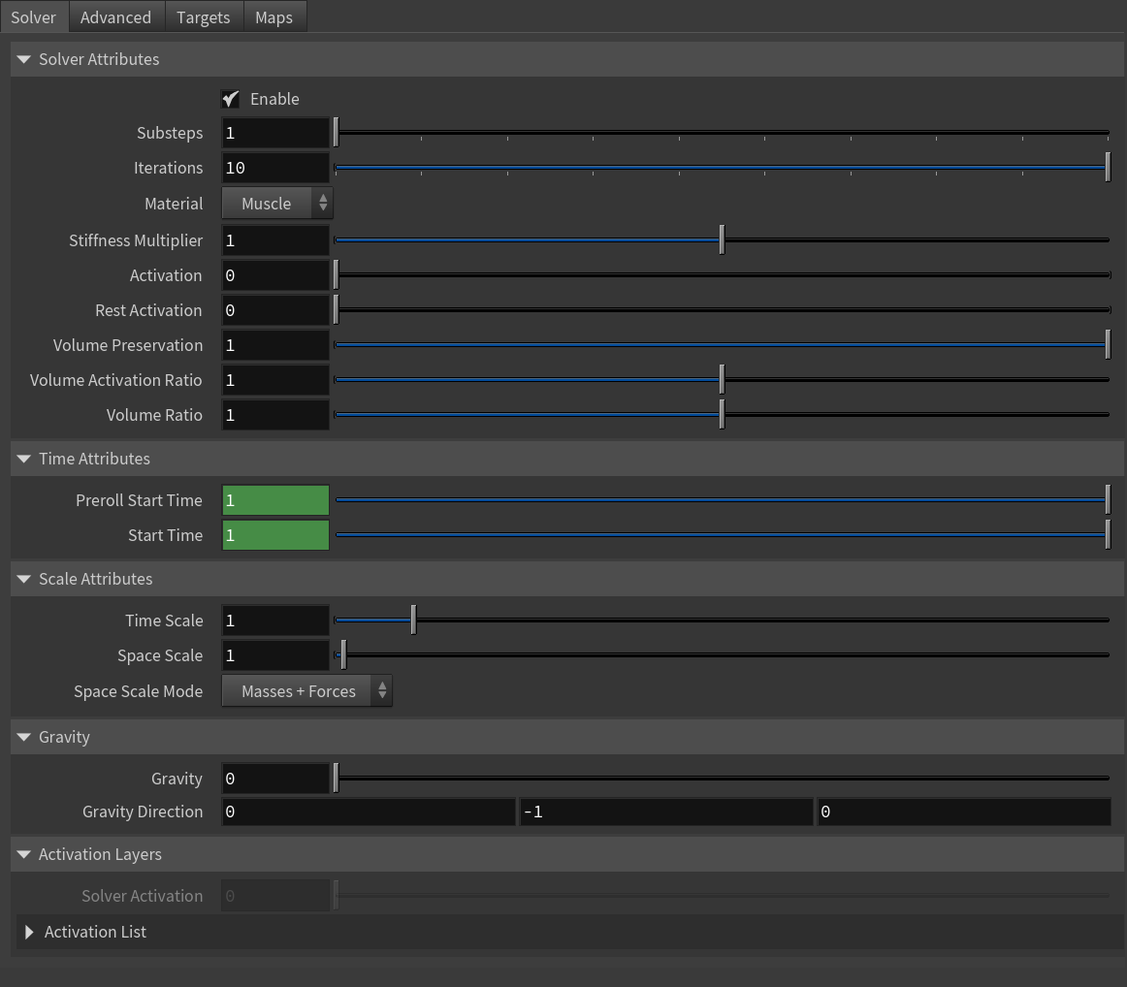
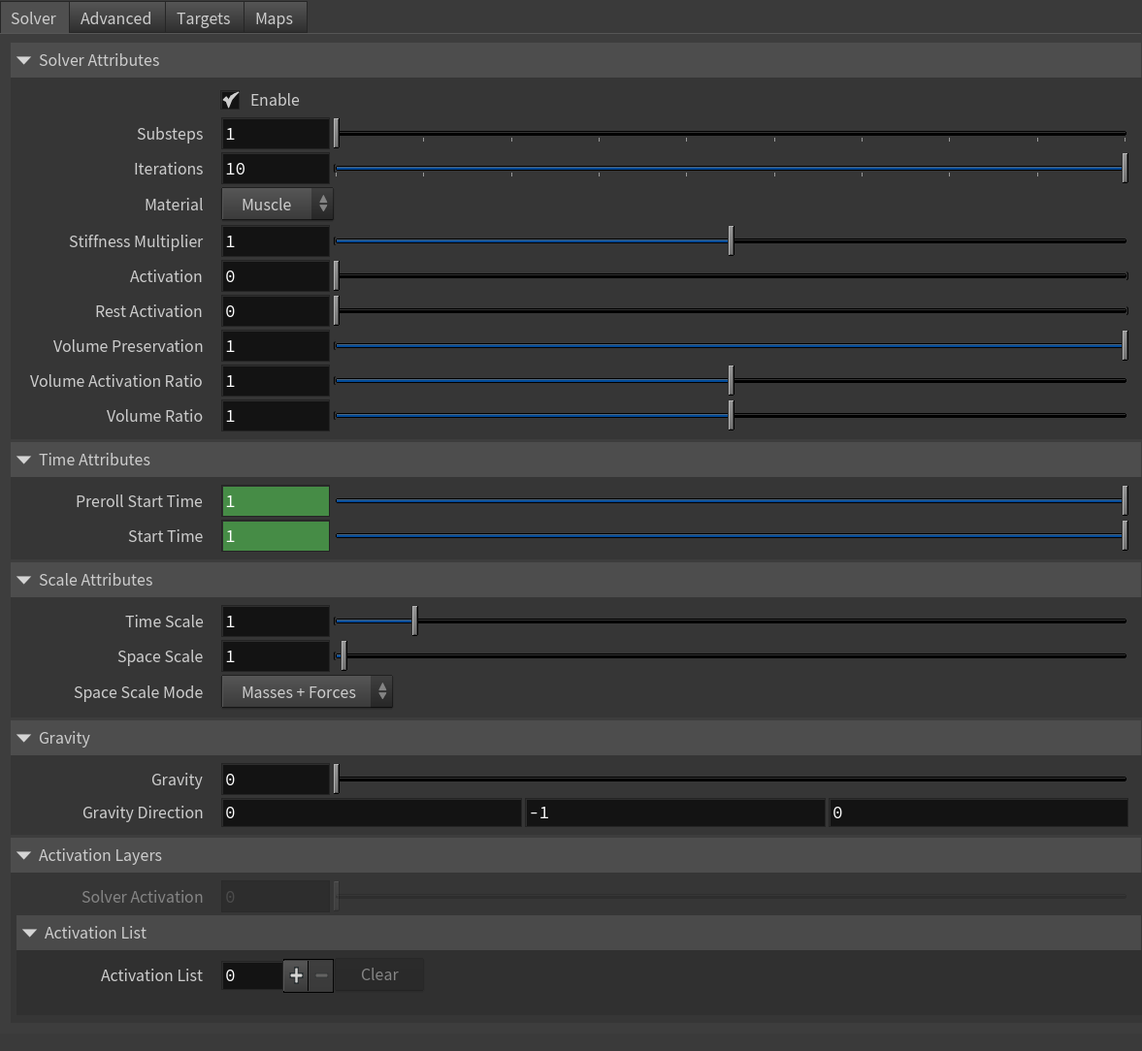
Add page of AdnRibbonMuscle for houdini (pending: scene screenshots)

Changed region(s): [[0.031, 0.0914, 0.9914, 0.944], [0.0, 0.0, 0.2788, 0.0609], [0.3098, 0.9136, 0.3408, 0.944]]

diff --git a/docs/houdini/solvers/ribbon.md b/docs/houdini/solvers/ribbon.md
@@ -1,3 +1,327 @@
 # AdnRibbonMuscle
 
-Coming soon
+AdnRibbonMuscle is a Houdini SOP for fast, robust, and easy-to-configure muscle simulation on a surface. Thanks to the combination of internal (structural) and external (attachment and slide) constraints, this SOP can produce dynamics that allow the mesh to acquire realistic muscle-like behavior of a ribbon, including fiber activation to modulate rigidity and attachment properties that allow the muscle to follow the global kinematics of the character through external objects.
+
+The influence of these constraints on the simulated mesh can be freely modified by painting the available maps or by uniformly adjusting their influence using multipliers in the SOP parameters. In addition to maps and multipliers, there are many other parameters available to control the muscle’s dynamics and behavior, offering a wide range of configuration options.
+
+
+### How To Use
+
+The AdnRibbonMuscle SOP is very simple to apply to geometry and set up in a Houdini scene. It works by connecting the geometry to be simulated to the single input of the SOP. Then, attachment objects are added in the **Targets** tab, and maps are painted to make the simulated geometry follow those objects. This introduces a significant portion of the solver’s dynamics. Additionally, there are several intuitive, easy-to-set parameters and other paintable maps that allow further tweaking of the simulation to achieve the desired results.
+
+An AdnRibbonMuscle setup requires the following inputs:
+
+- **Targets (T)**: A list of objects with which the simulated muscle will interact. Targets can be nodes to define attachment points via their transformation matrix (e.g., rig joints, null nodes, etc.) or geometries to define those attachment points via closest point queries on their surface (e.g., bones or other muscles). Providing a list of targets is optional; however, targets are required to enable attachment and sliding behaviors on the muscle. One or multiple targets are supported. Refer to the [Targets Section](#targets) for more information.
+- **Muscle Geometry (M)**: The mesh to which the AdnRibbonMuscle SOP will be applied.
+
+To create an AdnRibbonMuscle, follow these steps:
+
+1. Go to the geometry context of the rig containing the muscle geometries and ensure that the muscle is a single geometry piece.
+2. Press TAB and navigate to the submenu AdonisFX > Solvers to find the AdnRibbonMuscle ![Muscle button](../../images/adn_ribbon_muscle.png){style="width:4%"} SOP type.
+3. Create it and connect the geometry to the input.
+4. Go to the **Targets** tab in the AdnRibbonMuscle parameters, add a new entry either to *Targets* to add a geometry target (e.g., the mummy).
+5. Provide the object path of the geometry in *Target World Mesh*.
+6. The AdnRibbonMuscle is now ready to simulate using the default settings. Refer to the next section to customize its configuration.
+
+## Attributes
+
+### Solver Attributes
+| Name | Type | Default | Animatable | Description |
+| :--- | :--- | :------ | :--------- | :---------- |
+| **Enable**                  | Boolean    | True   | ✓ | Flag to enable or disable the SOP computation. |
+| **Substeps**                | Integer    | 1      | ✓ | Number of steps that the solver will execute per simulation frame. Greater values mean greater computational cost. Has a range of \[1, 10\]. The upper limit is soft, higher values can be used. |
+| **Iterations**              | Integer    | 10     | ✓ | Number of iterations that the solver will execute per simulation step. Greater values mean greater computational cost. Has a range of \[1, 10\]. The upper limit is soft, higher values can be used. |
+| **Material**                | Enumerator | Muscle | ✓ | Solver stiffness presets per material. The materials are listed from lowest to highest stiffness. There are 8 different presets: Fat: 10<sup>3</sup>, Muscle: 5e<sup>3</sup>, Rubber: 10<sup>6</sup>, Tendon: 5e<sup>7</sup>, Leather: 10<sup>8</sup>, Wood: 6e<sup>9</sup>, Skin: 12e<sup>3</sup>. |
+| **Stiffness Multiplier**    | Float      | 1.0    | ✓ | Multiplier factor to scale up or down the material stiffness. Has a range of \[0.0, 2.0\]. The upper limit is soft, higher values can be used. |
+| **Activation**              | Float      | 0.0    | ✓ | Current activation of the deformed muscle. The activation modifies the stiffness of the muscle depending on the fibers direction of the muscle. Has a range of \[0.0, 1.0\]. To ingest activations driven by multiple sensors into the muscle, refer to the [AdnActivation](../utils/activation#adnactivation) page. |
+| **Rest Activation**         | Float      | 0.0    | ✓ | Value representing the amount of rest activation to apply to the muscle. Has a range of \[0.0, 1.0\]. |
+
+### Time Attributes
+| Name | Type | Default | Animatable | Description |
+| :--- | :--- | :------ | :--------- | :---------- |
+| **Preroll Start Time** | Time | *Current frame* | ✗ | Sets the frame at which the preroll begins. The preroll ends at *Start Time*. |
+| **Start Time**         | Time | *Current frame* | ✗ | Determines the frame at which the simulation starts. |
+| **Current Time**       | Time | *Current frame* | ✓ | Current playback frame. |
+
+### Scale Attributes
+| Name | Type | Default | Animatable | Description |
+| :--- | :--- | :------ | :--------- | :---------- |
+| **Time Scale**       | Float      | 1.0             | ✓ | Sets the scaling factor applied to the simulation time step. Has a range of \[0.0, 2.0\]. The upper limit is soft, higher values can be used. |
+| **Space Scale**      | Float      | 1.0             | ✓ | Sets the scaling factor applied to the masses and/or the forces (e.g. gravity). AdonisFX interprets the scene units in centimeters. If modeling your creature you apply a scaling factor for whatever reason (e.g. to avoid precision issues in Maya), you will have to adjust for this scaling factor using this attribute. If your character is supposed to be 170 units tall, but you prefer to model it to be 17 units tall, then you will need to set the space scale to a value of 10. This will ensure that your 17 units creature will simulate as if it was 170 units tall. Has a range of \[0.0, 2.0\]. The upper limit is soft, higher values can be used. |
+| **Space Scale Mode** | Enumerator | Masses + Forces | ✓ | Determines if the spatial scaling affects the masses, the forces, or both. The available options are: <ul><li>Masses: The *Space Scale* only affects masses.</li><li>Forces: The *Space Scale* only affects forces.</li><li>Masses + Forces: The *Space Scale* affects masses and forces.</li><ul> |
+
+### Gravity
+| Name | Type | Default | Animatable | Description |
+| :--- | :--- | :------ | :--------- | :---------- |
+| **Gravity**           | Float  | 0.0              | ✓ | Sets the magnitude of the gravity acceleration in m/s<sup>2</sup>. The value is internally converted to cm/s<sup>2</sup>. Has a range of \[0.0, 100.0\]. The upper limit is soft, higher values can be used. |
+| **Gravity Direction** | Float3 | {0.0, -1.0, 0.0} | ✓ | Sets the direction of the gravity acceleration. Vectors introduced do not need to be normalized, but they will get normalized internally. |
+
+### Activation Layers
+| Name | Type | Default | Animatable | Description |
+| :--- | :--- | :------ | :--------- | :---------- |
+| **Solver Activation**               | Float       | 0.0   | ✗ | Shows the global activation value currently used by the solver. This global activation is the result of applying all the activation layers configured in the **activation** and **activation list** attributes. |
+| **Activation List**                 | List        | Empty | ✗ | List of activation layers where each item is a multiparam  of three elements: bypass operator, value and operator. |
+| **Activation List Bypass Operator** | Boolean     | True  | ✓ | If enabled, it bypasses the current operator in the activation list, which will not contribute to the final activation value. |
+| **Activation List Value**           | Float       | 0.0   | ✓ | Activation value that will contribute, given the operator type, to the final activation. |
+| **Activation List Operator**        | Enumerator  | Over  | ✓ | Operator used to contribute to the final activation. This can be: Over, Add, Sub, Mult, Divide. |
+
+### Advanced Settings
+
+#### Initialization Settings
+| Name | Type | Default | Animatable | Description |
+| :--- | :--- | :------ | :--------- | :---------- |
+| **Fiber Lengths At Start Time**        | Boolean | True  | ✗ | Flag that forces the fiber constraints to reinitialize the rest length at start time. This attribute has effect only if preroll start time is lower than start time. |
+| **Shape Preservation At Start Time**   | Boolean | False | ✗ | Flag that forces the shape preservation constraints to reinitialize at start time. This attribute has effect only if preroll start time is lower than start time. |
+| **External Constraints At Start Time** | Boolean | True  | ✗ | Flag that forces the external constraints (attachments to transform, attachments to geometry, slide on segment and slide on geometry) to reinitialize at start time. This attribute has effect only if preroll start time is lower than start time. |
+
+#### Stiffness Settings
+| Name | Type | Default | Animatable | Description |
+| :--- | :--- | :------ | :--------- | :---------- |
+| **Use Custom Stiffness**                  | Boolean | False          | ✓ | Toggles the use of a custom stiffness value. If custom stiffness is used, *Material* and *Stiffness Multiplier* will be disabled and *Stiffness* will be used instead. |
+| **Stiffness**                             | Float   | 10<sup>5</sup> | ✓ | Sets the custom stiffness value. Its value must be greater than 0.0. |
+
+#### Override Constraint Stiffness
+| Name | Type | Default | Animatable | Description |
+| :--- | :--- | :------ | :--------- | :---------- |
+| **Solver Stiffness**         | Float |  0.0 | ✗ | Shows the global stiffness value currently used by the solver. |
+| **Attachments To Geometry**  | Float | -1.0 | ✓ | Sets the stiffness override value for attachment to geometry constraints. If the value is less than 0.0, the global stiffness will be used. Otherwise, this custom stiffness will override the global stiffness. Has a range of \[0.0, 10<sup>12</sup>\]. The upper limit is soft, higher values can be used. |
+| **Attachments To Transform** | Float | -1.0 | ✓ | Sets the stiffness override value for attachment to transform constraints. If the value is less than 0.0, the global stiffness will be used. Otherwise, this custom stiffness will override the global stiffness. Has a range of \[0.0, 10<sup>12</sup>\]. The upper limit is soft, higher values can be used. |
+| **Fiber Constraints**        | Float | -1.0 | ✓ | Sets the stiffness override value for fiber constraints. If the value is less than 0.0, the global stiffness will be used. Otherwise, this custom stiffness will override the global stiffness. Has a range of \[0.0, 10<sup>12</sup>\]. The upper limit is soft, higher values can be used. |
+| **Shape Preservation**       | Float | -1.0 | ✓ | Sets the stiffness override value for shape preservation constraints. If the value is less than 0.0, the global stiffness will be used. Otherwise, this custom stiffness will override the global stiffness. Has a range of \[0.0, 10<sup>12</sup>\]. The upper limit is soft, higher values can be used. |
+| **Slide On Geometry**        | Float | -1.0 | ✓ | Sets the stiffness override value for slide on geometry constraints. If the value is less than 0.0, the global stiffness will be used. Otherwise, this custom stiffness will override the global stiffness. Has a range of \[0.0, 10<sup>12</sup>\]. The upper limit is soft, higher values can be used. |
+| **Slide On Segment**         | Float | -1.0 | ✓ | Sets the stiffness override value for slide on segment constraints. If the value is less than 0.0, the global stiffness will be used. Otherwise, this custom stiffness will override the global stiffness. Has a range of \[0.0, 10<sup>12</sup>\]. The upper limit is soft, higher values can be used. |
+
+> [!NOTE]
+> Providing a stiffness override value of 0.0 will disable the computation of that constraint.
+
+#### Mass Properties
+
+| Name | Type | Default | Animatable | Description |
+| :--- | :--- | :------ | :--------- | :---------- |
+| **Point Mass Mode**        | Enumerator | By Density | ✓ | Defines how masses should be used in the solver.<ul><li>*By Density* allows to estimate the mass value by multiplying Density * Area.</li><li>*By Uniform Value* allows to set a uniform mass value.</li></ul> |
+| **Density**                | Float      | 1060.0     | ✓ | Sets the density value in kg/m<sup>3</sup> to be able to estimate mass values with *By Density* mode. The value is internally converted to g/cm<sup>3</sup>. Has a range of \[0.001, 10<sup>6</sup>\]. Lower and upper limits are soft, lower and higher values can be used. |
+| **Global Mass Multiplier** | Float      | 1.0        | ✓ | Sets the scaling factor applied to the mass of every point. Has a range of \[0.001, 10.0\]. Lower and upper limits are soft, lower and higher values can be used. |
+
+#### Rest Shapes Attributes
+
+| Name | Type | Default | Animatable | Description |
+| :--- | :--- | :------ | :--------- | :---------- |
+| **Rest Shape Weight** | Float   | 0.0 | ✓ | Defines the influence of the given rest shape to the final shape of the muscle. Has a range of \[0.0, 1.0\]. A value of 0.0 makes the solver ignore the rest shape. A value of 1.0 makes the solver refresh the data of fibers and shape preservation constraints at each frame to align with the rest shape. A value between 0.0 and 1.0 applies an interpolation between the original constraints data (0.0) and the rest shape constraints data (1.0). Note that this parameter is ignored if there is no rest shape connected to the solver. |
+| **Rest Shape Mesh**   | String  |     | ✓ | Object path of the geometry to drive the goal shape of the muscle during simulation. This geometry is used to refresh the data of the fibers and shape preservation constraints at each frame. |
+
+#### Dynamic Properties
+| Name | Type | Default | Animatable | Description |
+| :--- | :--- | :------ | :--------- | :---------- |
+| **Triangulate Mesh**            | Boolean    | True     | ✗ | Use the internally triangulated mesh to build constraints. |
+| **Global Damping Multiplier**   | Float      | 0.75     | ✓ | Sets the scaling factor applied to the global damping of every point. Has a range of \[0.0, 1.0\]. The upper limit is soft, higher values can be used. |
+| **Inertia Damper**              | Float      | 0.0      | ✓ | Sets the linear damping applied to the dynamics of every point. Has a range of \[0.0, 1.0\]. The upper limit is soft, higher values can be used. |
+| **Rest Length Multiplier**      | Float      | 1.0      | ✓ | Sets the scaling factor applied to the edge lengths at rest. Has a range of \[0.0, 2.0\]. The upper limit is soft, higher values can be used. |
+| **Max Sliding Distance**        | Float      | 0.0      | ✗ | Determines the size of the sliding area. It corresponds to the maximum distance to the closest point on the target mesh computed on initialization. The higher this value is, the higher quality and the lower performance. If the value provided is considered too high for a given target mesh, a warning will be displayed to the user. Has a range of \[0.0, 10.0\]. The upper limit is soft, higher values can be used. |
+| **Compression Multiplier**      | Float      | 1.0      | ✓ | Sets the scaling factor applied to the compression resistance of every point. Has a range of \[0.0, 2.0\]. The upper limit is soft, higher values can be used. |
+| **Stretching Multiplier**       | Float      | 1.0      | ✓ | Sets the scaling factor applied to the stretching resistance of every point. Has a range of \[0.0, 2.0\]. The upper limit is soft, higher values can be used. |
+| **Anisotropy**                  | Float      | 0.0      | ✓ | Sets the anisotropic behavior of the fibers: 0 fully isotropic material, 1 fully anisotropic material. Has a range of \[0.0, 1.0\]. |
+| **Anisotropy Ratio**            | Float      | 9.0      | ✓ | Sets the ratio of anisotropy of the muscle fibers to lower the stiffness on edges not aligned with the fibers flow: the higher this value is, the lower the stiffness of the orthogonal edges when the muscle is anisotropic. Has a range of \[1.0, 50.0\]. The upper limit is soft, higher values can be used. |
+| **Attenuation Velocity Factor** | Float      | 1.0      | ✓ | Sets the weight of the attenuation applied to the velocities of the simulated vertices driven by the *Attenuation Matrix*. Has a range of \[0.0, 1.0\]. The upper limit is soft, higher values can be used. |
+| **Attenuation Velocity Matrix** | String     |          | ✓ | Object path of the node to extract the transformation matrix from to compute the velocity attenuation. |
+| **Substeps Interp. Exp.**       | Float      | 1.0      | ✓ | Sets the exponential factor to weight the interpolation at each substep. Has a range of \[0.0, 1.0\]. The upper limit is soft, higher values can be used. A value of 0.0 disables the interpolation: input geometry targets and attenuation matrix are not interpolated. A value of 1.0 applies linear interpolation (input geometry targets and attenuation matrix) between previous and current frame based on a linear weight, i.e. `weight = substep / num_substeps`. A value between 0.0 and 1.0 applies exponential interpolation (input geometry targets and attenuation matrix) between previous and current frame based on an exponential weight, i.e. `weight = (substep / num_substeps) ^ exponent`. |
+| **Hard Attachments**            | Boolean    | False    | ✓ | If enabled, attachment constraints will force the vertices to stick to the target transformation completely. |
+| **Sliding Constraints Mode**    | Enumerator | Quality  | ✓ | Defines the mode of execution for the slide on geometry constraints.<ul><li>*Quality* is more accurate, recommended for final results.</li><li>*Fast* provides higher performance, recommended for preview.</li></ul> |
+
+### Deformer Attributes
+| Name | Type | Default | Animatable | Description |
+| :--- | :--- | :------ | :--------- | :---------- |
+| **Envelope** | Float | 1.0 | ✓ | Specifies the deformation scale factor. Has a range of \[0.0, 1.0\]. The upper and lower limits are soft, values can be set in a range of \[-2.0, 2.0\]|
+
+### Targets Attributes
+| Name | Type | Default | Animatable | Description |
+| :--- | :--- | :------ | :--------- | :---------- |
+| **Targets**                             | List      | 0                                 | ✗ | List of geometry targets used for setting up attachment to geometry and slide on geometry constraints. Each item is a multiparam of three elements: target world mesh, attachment to geometry attribute and slide on geometry attribute. |
+| **Target World Mesh**                   | String    |                                   | ✓ | Object path of the mesh used for setting up attachment to geometry and slide on geometry constraints. |
+| **Attachments To Geometry Attribute**   | String    | adnAttachmentToGeoConstraints0    | ✗ | Specifies the name of the per-point attribute to read the attachment to geo weight values from. Expected range \[0.0, 1.0\]. |
+| **Slide On Geometry Attribute**         | String    | adnSlideOnGeometryConstraints0    | ✗ | Specifies the name of the per-point attribute to read the slide on geo weight values from. Expected range \[0.0, 1.0\]. |
+||||||
+| **Attachments To Transform**            | List      | 0                                 | ✗ | List of objects used for setting up attachment to transform constraints. Each item is a multiparam of two elements: attachment matrix and attachment attribute. |
+| **Attachment Matrix**                   | String    |                                   | ✓ | Object path of the node used for setting up attachment to transform constraints. |
+| **Attachment Attribute**                | String    | adnAttachmentConstraints0         | ✗ | Specifies the name of the per-point attribute to read the attachment weight values from. Expected range \[0.0, 1.0\]. |
+||||||
+| **Slide On Segments**                   | List      | 0                                 | ✗ | List of pair of objects used for setting up slide on segment constraints. |
+| **Slide On Segment Root Matrix**        | String    |                                   | ✓ | Defines the path to the root transformation matrix to drive the slide on segment constraint. The path can be relative or absolute. |
+| **Slide On Segment Tip Matrix**         | String    |                                   | ✓ | Defines the path to the tip transformation matrix to drive the slide on segment constraint. The path can be relative or absolute. |
+| **Slide On Segment Attribute**          | String    | adnSlideOnSegmentConstraints0     | ✗ | Specifies the name of the per-point attribute to read the slide on segment weight values from. Expected range \[0.0, 1.0\]. |
+
+### Maps
+
+| Name | Type | Default | Animatable | Description |
+| :--- | :--- | :------ | :--------- | :---------- |
+| **Compression Resistance Attribute**          | float       | 1.0             | ✗            | Specifies the name of the per-point attribute to read the compression resistance values from. Expected range \[0.0, 1.0\]. |
+| **Fibers Attribute**                          | Vec3        | {0.0, 0.0, 0.0} | ✗            | Specifies the name of the per-point attribute to read the fiber values from. |
+| **Fibers Multiplier Attribute**               | float       | 1.0             | ✗            | Specifies the name of the per-point attribute to read the fibers multiplier values from. Expected range \[0.0, 1.0\]. |
+| **Global Damping Attribute**                  | float       | 1.0             | ✗            | Specifies the name of the per-point attribute to read the global damping from. Expected range \[0.0, 1.0\]. |
+| **Mass Attribute**                            | float       | 1.0             | ✗            | Specifies the name of the per-point attribute to read the mass values from. Expected range \[0.001, 1.0\]. |
+| **Shape Preservation Attribute**              | float       | 1.0             | ✗            | Specifies the name of the per-point attribute to read the shape preservation values from. Expected range \[0.0, 1.0\]. |
+| **Max Sliding Distance Multiplier Attribute** | float       | 1.0             | ✗            | Specifies the name of the per-point attribute to read the maximum sliding distance multiplier from. Expected range \[0.0, 1.0\]. |
+| **Stretching Resistance Attribute**           | float       | 1.0             | ✗            | Specifies the name of the per-point attribute to read the stretching resistance values from. Expected range \[0.0, 1.0\]. |
+| **Tendons Attribute**                         | float       | 0.0             | ✗            | Specifies the name of the per-point attribute to read the tendon values from. Expected range \[0.0, 1.0\]. |
+| **Maps Remap Mode**                           | Enumerator  | Squared         | ✗            | Defines the mode of remapping the painted values of attachments to geometry, slide on geometry, attachments to transform, slide on segment and shape preservation constraints. The other paintable maps remain unmodified. Each remap mode applies a function to the input painted values (x) to get the final value used for the simulation (y).<ul><li>Linear: `y = x`</li><li>Squared: `y = x^2`</li><li>Cubic: `y = x^3`</li><li>Square Root: `y = x^(1/2)`</li><li>Cube Root: `y = x^(1/3)`</li><li>Logarithmic: `y = log((exp(1) - 1) * x + 1)`</li></ul> |
+
+
+## Parameter Template
+
+<figure style="width: 75%;" markdown>
+  ![AdnRibbonMuscle parameter template solver tab](../images/ribbon_parameter_template_00.png) 
+  <figcaption><b>Figure 1</b>: AdnRibbonMuscle Parameter Template: Solver.</figcaption>
+</figure>
+
+<figure style="width: 75%;" markdown>
+  ![AdnRibbonMuscle parameter template advanced tab part 1](../images/ribbon_parameter_template_01.png) 
+  <figcaption><b>Figure 2</b>: AdnRibbonMuscle Parameter Template: Advanced (Part 1).</figcaption>
+</figure>
+
+<figure style="width: 75%;" markdown>
+  ![AdnRibbonMuscle parameter template advanced tab part 2](../images/ribbon_parameter_template_02.png) 
+  <figcaption><b>Figure 3</b>: AdnRibbonMuscle Parameter Template: Advanced (Part 2).</figcaption>
+</figure>
+
+<figure style="width: 75%;" markdown>
+  ![AdnRibbonMuscle parameter template targets tab](../images/ribbon_parameter_template_03.png) 
+  <figcaption><b>Figure 4</b>: AdnRibbonMuscle Parameter Template: Targets.</figcaption>
+</figure>
+
+<figure style="width: 75%;" markdown>
+  ![AdnRibbonMuscle parameter template maps tab](../images/ribbon_parameter_template_04.png) 
+  <figcaption><b>Figure 5</b>: AdnRibbonMuscle Parameter Template: Maps.</figcaption>
+</figure>
+
+## Paintable Weights
+
+In order to provide more artistic control, some key parameters of the muscle solver are exposed as paintable maps in the SOP. The maps are point attributes that must be present in the geometry stream injected into the SOP. For that, the Houdini attribpaint node can be used.
+
+| Name | Default | Description |
+| :--- | :------ | :---------- |
+| **Attachments To Geometry**     | 0.0             | Multi-influence weight to indicate the influence of each geometry attachment at each vertex of the muscle. |
+| **Attachments To Transform**    | 0.0             | Multi-influence weight to indicate the influence of each transform attachment at each vertex of the muscle. |
+| **Compression Resistance**      | 1.0             | Force to correct the edge lengths if the current length is smaller than the rest length. A higher value represents higher correction. |
+| **Fibers**                      | {0.0, 0.0, 0.0} | The SOP estimates the fiber directions at each vertex based on the tendon weights. In case that the estimated fibers do not fit well to the desired directions, the *AdnFiberGroom* HDA can be used to comb the fibers manually. The fibers can be displayed from that HDA. Check [this page](../utils/fiber_groom) to know more about this HDA.  |
+| **Fibers Multiplier**           | 1.0             | Controls the area in which to concentrate the activation of the muscle. A higher value means more concentrated activation. |
+| **Global Damping**              | 1.0             | Set global damping per vertex in the simulated mesh. The greater the value per vertex is the more it will attempt to retain its previous position. |
+| **Masses**                      | 1.0             | Set individual mass values per vertex in the simulated mesh. |
+| **Shape Preservation**          | 1.0             | Amount of correction to apply to the current vertex to maintain the initial state of the shape formed with the surrounding vertices. |
+| **Slide On Geometry**           | 0.0             | Multi-influence weight to force vertices to displace only on the target geometry area defined by the *Max Sliding Distance* value. |
+| **Slide On Segment**            | 0.0             | Multi-influence weight to force vertices to displace only in the direction of a user-specified group of segments. |
+| **Sliding Distance Multiplier** | 1.0             | Determines the size of the sliding area per vertex. It corresponds to the maximum distance to the closest point on the target mesh computed on initialization. Greater values will allow for larger sliding areas but will also increase the computational cost.<ul><li>*Tip*: For areas where sliding is not required paint to 0.0. Use values closer to 1.0 in areas where more sliding freedom should be prioritized.</li></ul> |
+| **Stretching Resistance**       | 1.0             | Force to correct the edge lengths if the current length is greater than the rest length. A higher value represents higher correction. |
+| **Tendons**                     | 0.0             | Floating values to indicate the source of the muscle fibers. The solver will use that information to make an estimation of the fiber direction at each vertex. It is recommended to set a value of 1.0 wherever the tendinous tissue would be in an anatomically realistic muscle and a value of 0.0 in the rest of the mesh. |
+
+<figure markdown>
+  ![AdnRibbonMuscle example of attachment to geometry with 4 targets](../images/ribbon_w_att_geo.png) 
+  <figcaption><b>Figure 6</b>: Example of AdnRibbonMuscle attachment to geometry maps painted on a biceps with 4 targets (front view). From left to right, the targets are the mummy, the brachialis muscle, the palmaris longus muscle and the pronator teres muscle.</figcaption>
+</figure>
+
+<figure markdown>
+  ![AdnRibbonMuscle example of slide on geometry with 2 targets](../images/ribbon_w_slide_geo.png) 
+  <figcaption><b>Figure 7</b>: Example of AdnRibbonMuscle slide on geometry maps painted on a biceps with 2 targets (back view). From left to right, the targets are the mummy and the brachialis muscle.</figcaption>
+</figure>
+<figure markdown>
+  ![AdnRibbonMuscle example of other paintable maps](../images/ribbon_weights.png) 
+  <figcaption><b>Figure 8</b>: Example of other paintable maps on a biceps. On the left, the fibers multiplier map. In the middle, the tendons map. On the right, a map flooded with a value of 1.0 corresponding to all other remaining maps (compression, stretching, masses, global damping, shape preservation and sliding distance multiplier).</figcaption>
+</figure>
+
+> [!NOTE]
+> - The attachment and sliding weights are normalized on initialization if the sum of the values for the multiple influences exceed the upper limit of 1.0.
+> - If *AdnFiberGroom* HDA is used to comb the Fibers, it is recommended to place it after `attribpaint` nodes in charge of painting the Tendon weights, because the tendons map is an input to estimate an initial fibers flow.
+
+<figure style="width: 75%;" markdown>
+  ![AdnRibbonMuscle example of net with attribpaint and AdnFiberGroom HDA](../images/muscle_net_example.png) 
+  <figcaption><b>Figure 9</b>: Example of AdnRibbonMuscle net. The attribpaint node has to be placed prior to the AdnFiberGroom. Using null nodes with ADN_IN_ and ADN_OUT_ prefixes to encapsulate the AdonisFX deformable section is recommended to keep the net compatible with the API.</figcaption>
+</figure>
+
+## Advanced
+
+### Targets
+
+Once the AdnRibbonMuscle SOP is created, it is possible to add and remove attachments from the muscle using the *Targets* tab. A target is evaluated as a **mesh** if its object path is added to *Target World Mesh* under the *Targets* multiparm (i.e., to set up attachment-to-geometry and slide-on-geometry constraints), and as a **transformation matrix** if its object path is added to *Attachment Matrix* under the *Attachments To Transform* multiparm (i.e., to set up attachment-to-transform constraints).
+
+- **Add geometry targets**:
+    1. Increment the number of entries in the *Targets* multiparm. This adds a new entry to the list.
+    2. Enter the object path of the geometry to add. The path can be absolute or relative to the SOP.
+- **Remove geometry targets**:
+    1. Locate the target to remove in the *Targets* multiparm.
+    2. Remove it using the **X** button for that item.
+    3. Alternatively, to remove all targets, click the **Clear** button of the *Targets* multiparm.
+- **Add attachment matrices**:
+    1. Increment the number of entries in the *Attachments To Transform* multiparm. This adds a new entry to the list.
+    2. Enter the object path of the node to add. The path can be absolute or relative to the SOP.
+- **Remove attachment matrices**:
+    1. Locate the object to remove in the *Attachments To Transform* multiparm.
+    2. Remove it using the **X** button for that item.
+    3. Alternatively, to remove all attachments, click the **Clear** button of the *Attachments To Transform* multiparm.
+
+Transformation nodes such as joints or locators are used to create attachments to their world transformation matrices. Meshes, on the other hand, are used to create attachment-to-geometry and slide-on-geometry constraints. Refer to [A Simple Setup](../simple_setup#AdnRibbonMuscle) for more information on painting influence maps for these constraints.
+
+> [!NOTE]
+> - Attachment-to-geometry and slide-on-geometry constraints are intended to simulate muscle-to-bone and muscle-to-muscle interactions.
+> - For muscle-to-muscle interactions, only unidirectional relationships are supported. This means that for two muscles, A and B, it is possible to assign A as a target of B or B as a target of A, but not both simultaneously.
+
+### Slide On Segment Constraint
+
+In addition to the previously described constraints, muscles can optionally use a constraint that defines a segment along which the muscle can slide. This constraint is configured in the *Slide On Segment Constraints* section of the *Targets* tab.
+
+- **Add segment**:
+    1. Increment the number of entries in the *Slide On Segment Constraints* multiparm. This adds a new entry to the list.
+    2. Enter the object path of the node to use as the root of the segment. The path can be absolute or relative to the SOP.
+    3. Enter the object path of the node to use as the tip of the segment. The path can be absolute or relative to the SOP.
+
+> [!NOTE]
+> - The transform nodes must follow a parent-to-child relationship in the hierarchy (as rig joints typically do).
+> - It is recommended to paint only the vertices that are not attached to the rig, i.e., excluding tendon vertices.
+> - This constraint is especially recommended for muscles on the limbs.
+
+- **Remove segment**:
+    1. Locate the segment to remove in the *Slide On Segment Constraints* multiparm.
+    2. Remove it using the **X** button for that item.
+    3. Alternatively, to remove all segments, click the **Clear** button of the *Slide On Segment Constraints* multiparm.
+
+### Rest Shape
+
+The muscle solver supports an art-directed shape that drives the fiber and shape preservation constraints. This shape is typically a sculpted version of the muscle (and must be topologically identical) representing the muscle in its fully activated state. Artists can add or remove this custom shape from the dedicated *Rest Shape Attributes* section in the *Advanced* tab.
+
+- **Add rest shape**:
+    1. Enter the object path of the geometry to use as the rest shape in the *Rest Shape Mesh* parameter.
+    2. Set the *Rest Shape Weight* to a value greater than 0.0 for the feature to take effect.
+
+> [!NOTE]
+> - The topology of the rest shape and the muscle geometry must be identical (i.e., vertex count, vertex connectivity, polygonal structure, etc.).
+
+- **Remove rest shape**:
+    1. Clear the object path in the *Rest Shape Mesh* parameter.
+    2. Alternatively, set the *Rest Shape Weight* to 0.0 to ignore the rest shape.
+
+Additionally, if the muscle activation input is connected to the *Rest Shape Weight*, the influence of the rest shape on the final result will vary coherently with the activation level during the simulation.
+
+### Fibers Multiplier
+
+Painting the fibers multiplier map allows to concentrate the activation of a muscle in certain areas which would allow for more artistic control over the final shape of the muscle after contraction (activation).
+Not painting the fibers multiplier map will cause the muscle to contract uniformly over its whole surface without concentrating the activations in the belly of the muscle. Painting to 0.0 the tendinous areas and painting to 1.0 the belly of the muscle will allow (after combing fibers and activating the muscle) to activate only the areas that had been painted with a value of 1.0.
+
+<figure markdown>
+  ![AdnRibbonMuscle fibers multiplier map example](../images/ribbon_fibers_multiplier.png) 
+  <figcaption><b>Figure 10</b>: Example use case of the fibers multiplier map on a biceps muscle. Top-Left) represents the painting without concentrated activations; Top-Right) represents the painting with concentrated activations in the belly of the muscle; Bottom-Left) Shows the results of the non-concentrated activations when the muscle is fully activated; Bottom-Right) Shows the results of the concentrated activations when the muscle is fully activated.</figcaption>
+</figure>
+
+### Activation Layers
+
+The activation layers allow to drive the muscle activation by multiple sensors combined together without the need of using an [AdnActivation](../utils#activation) node. In practice, having an AdnActivation node with multiple input sensors connected to the **activation** attribute of an AdnRibbonMuscle is equivalent to connecting those sensors directly to the activation list of that muscle.
+
+The activation layers contribute to the final activation of the muscle solver, where the first layer will always be the **activation** scalar attribute. Then, every value in the **activation list** array plug is applied on top taking into consideration the operator and the bypass flag. The resulting value is the global activation that the solver will use for the simulation, and it is written onto the read-only **output solver activation** attribute.
+
+The operators available are:
+
+1. **Over (Override)**: Overrides the accumulated solver activation value with Value. If the current accumulated activation value is 1.0 and Value is 2.0 then the new accumulated value will be 2.0.
+2. **Add (Add)**: Adds the accumulated solver activation value with Value. If the current accumulated activation value is 1.0 and Value is 2.0 then the new accumulated value will be 3.0.
+3. **Sub (Subtract)**: Subtracts the accumulated solver activation value with Value. If the current accumulated activation value is 1.0 and Value is 2.0 then the new accumulated value will be -1.0.
+4. **Mult (Multiply)**: Multiplies the accumulated solver activation value with Value. If the current accumulated activation value is 1.0 and Value is 2.0 then the new accumulated value will be 2.0.
+5. **Div (Divide)**: Divides the accumulated solver activation value with Value. If the current accumulated activation value is 1.0 and Value is 2.0 then the new accumulated value will be 0.5.
+
+> [!NOTE]
+> - All operators will be evaluated from top to bottom (starting from the lowest index and ending on the last index used).
+> - The final value will be clamped in the range 0 to 1 to ensure that the solver activation is always normalized.

diff --git a/docs/maya/solvers/ribbon.md b/docs/maya/solvers/ribbon.md
@@ -1,6 +1,6 @@
 # AdnRibbonMuscle
 
-AdnRibbonMuscle is a Maya deformer for fast, robust and easy-to-configure tissue muscle simulation for digital assets. Thanks to the combination of internal (structural) and external (attachment and slide) constraints, this deformer can produce dynamics that allow the mesh to acquire the simulated characteristics of a ribbon with fibers activations to modulate the rigidity, and attachments to external objects to follow the global kinematics of the character.
+AdnRibbonMuscle is a Maya deformer for fast, robust and easy-to-configure muscle simulation on a surface. Thanks to the combination of internal (structural) and external (attachment and slide) constraints, this deformer can produce dynamics that allow the mesh to acquire the simulated characteristics of a ribbon with fibers activations to modulate the rigidity, and attachments to external objects to follow the global kinematics of the character.
 
 The influence these constraints have on the simulated mesh can be freely modified by painting them via the [AdonisFX Paint Tool](../tools#paint-tool) or by uniformly regulating their influence via multipliers in the Attribute Editor. Besides the maps and multipliers there are many other parameters to regulate the muscle's dynamics and behavior to a wide array of options.
 
